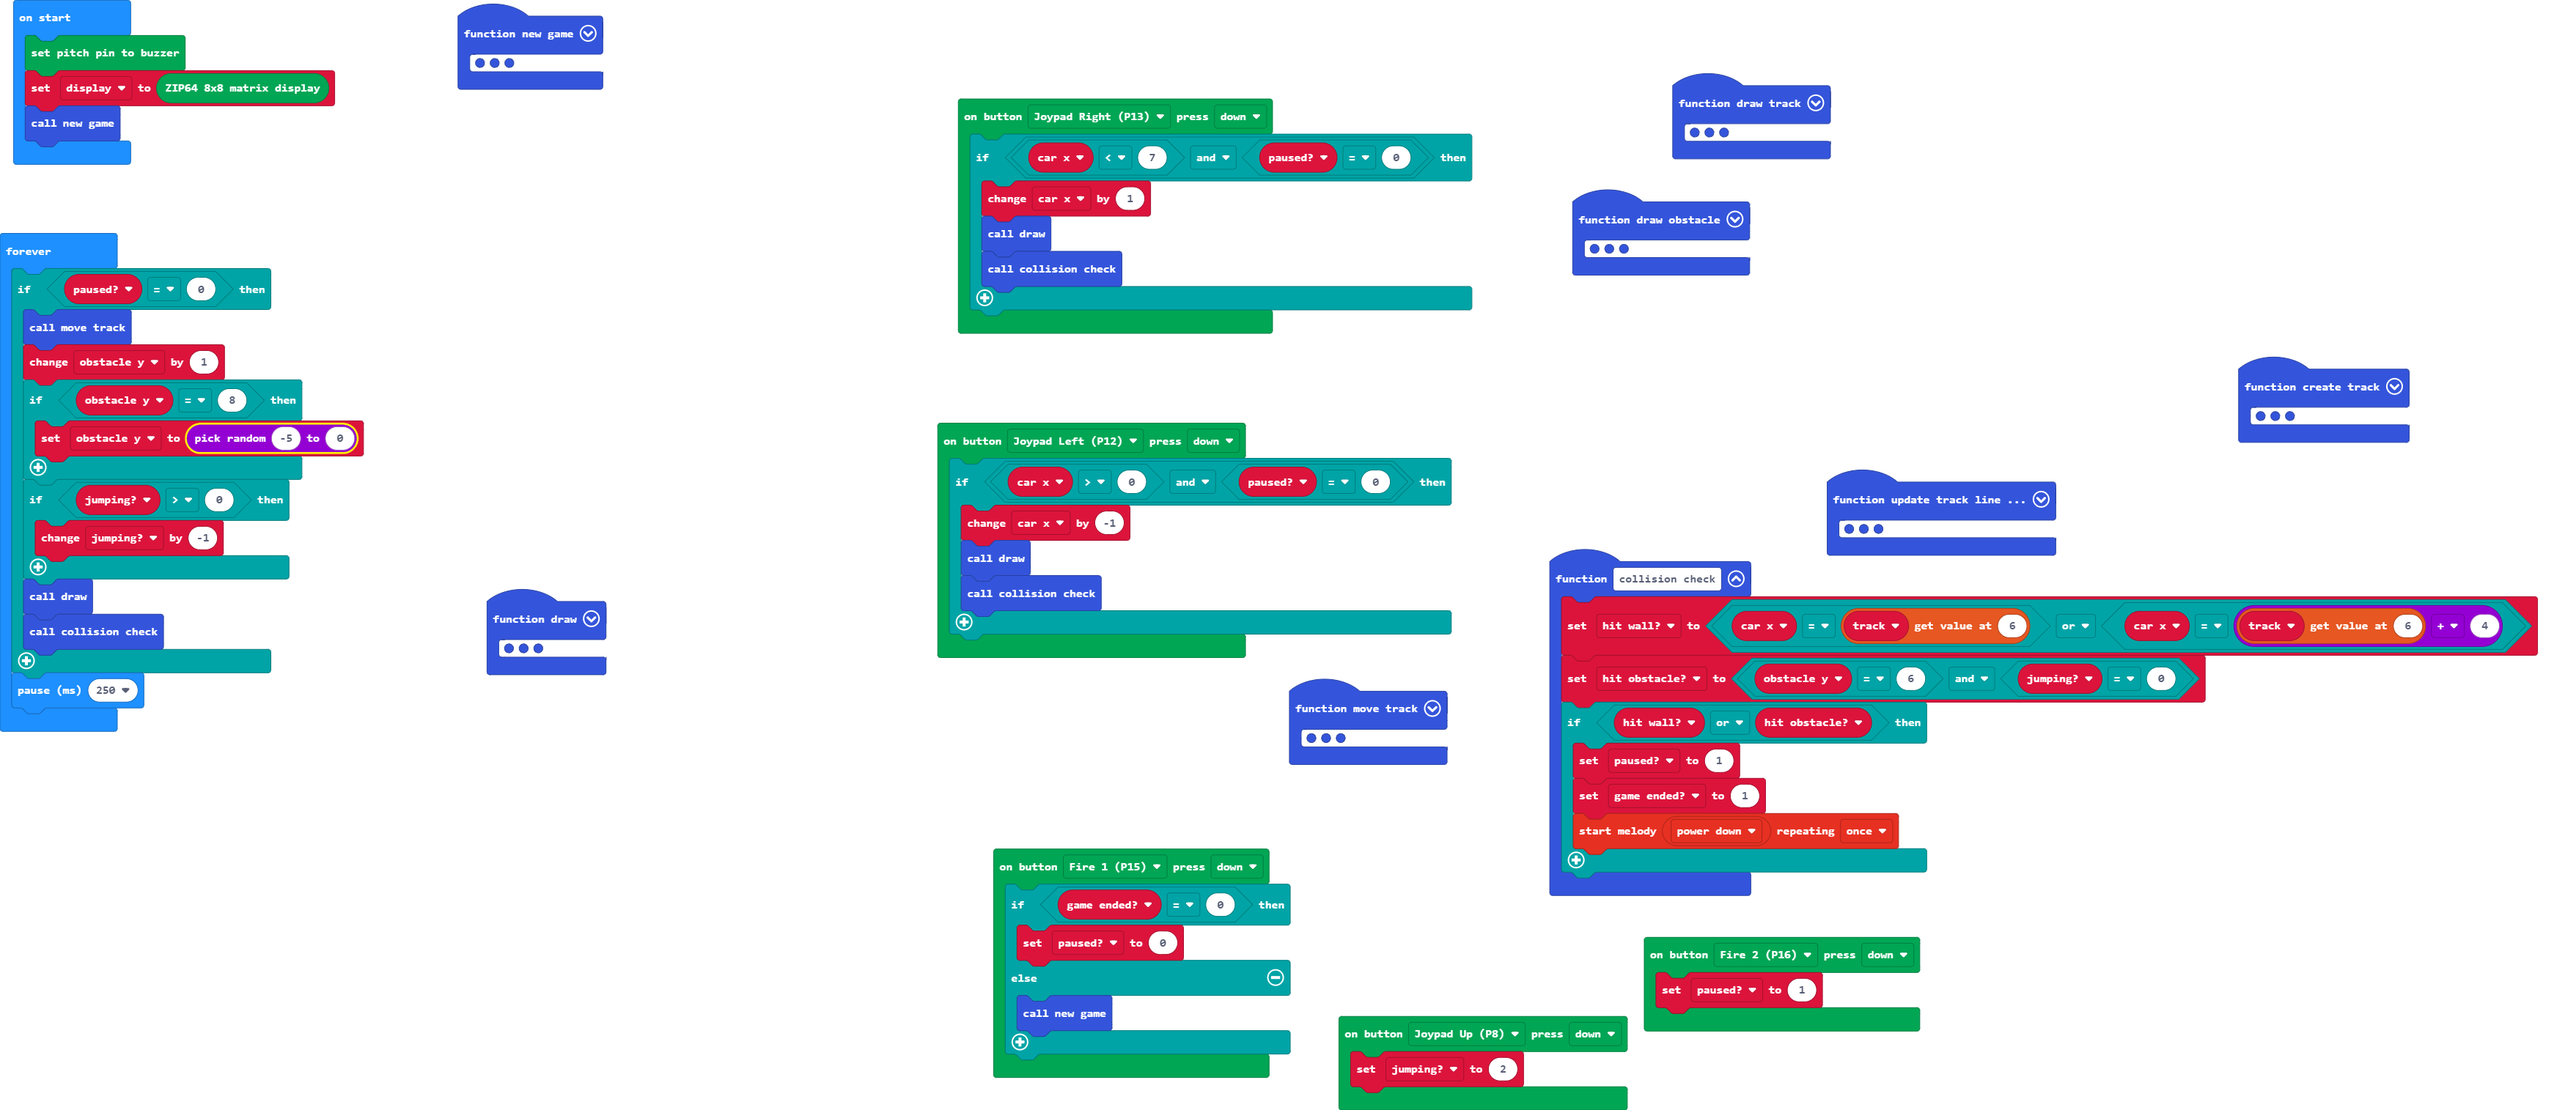
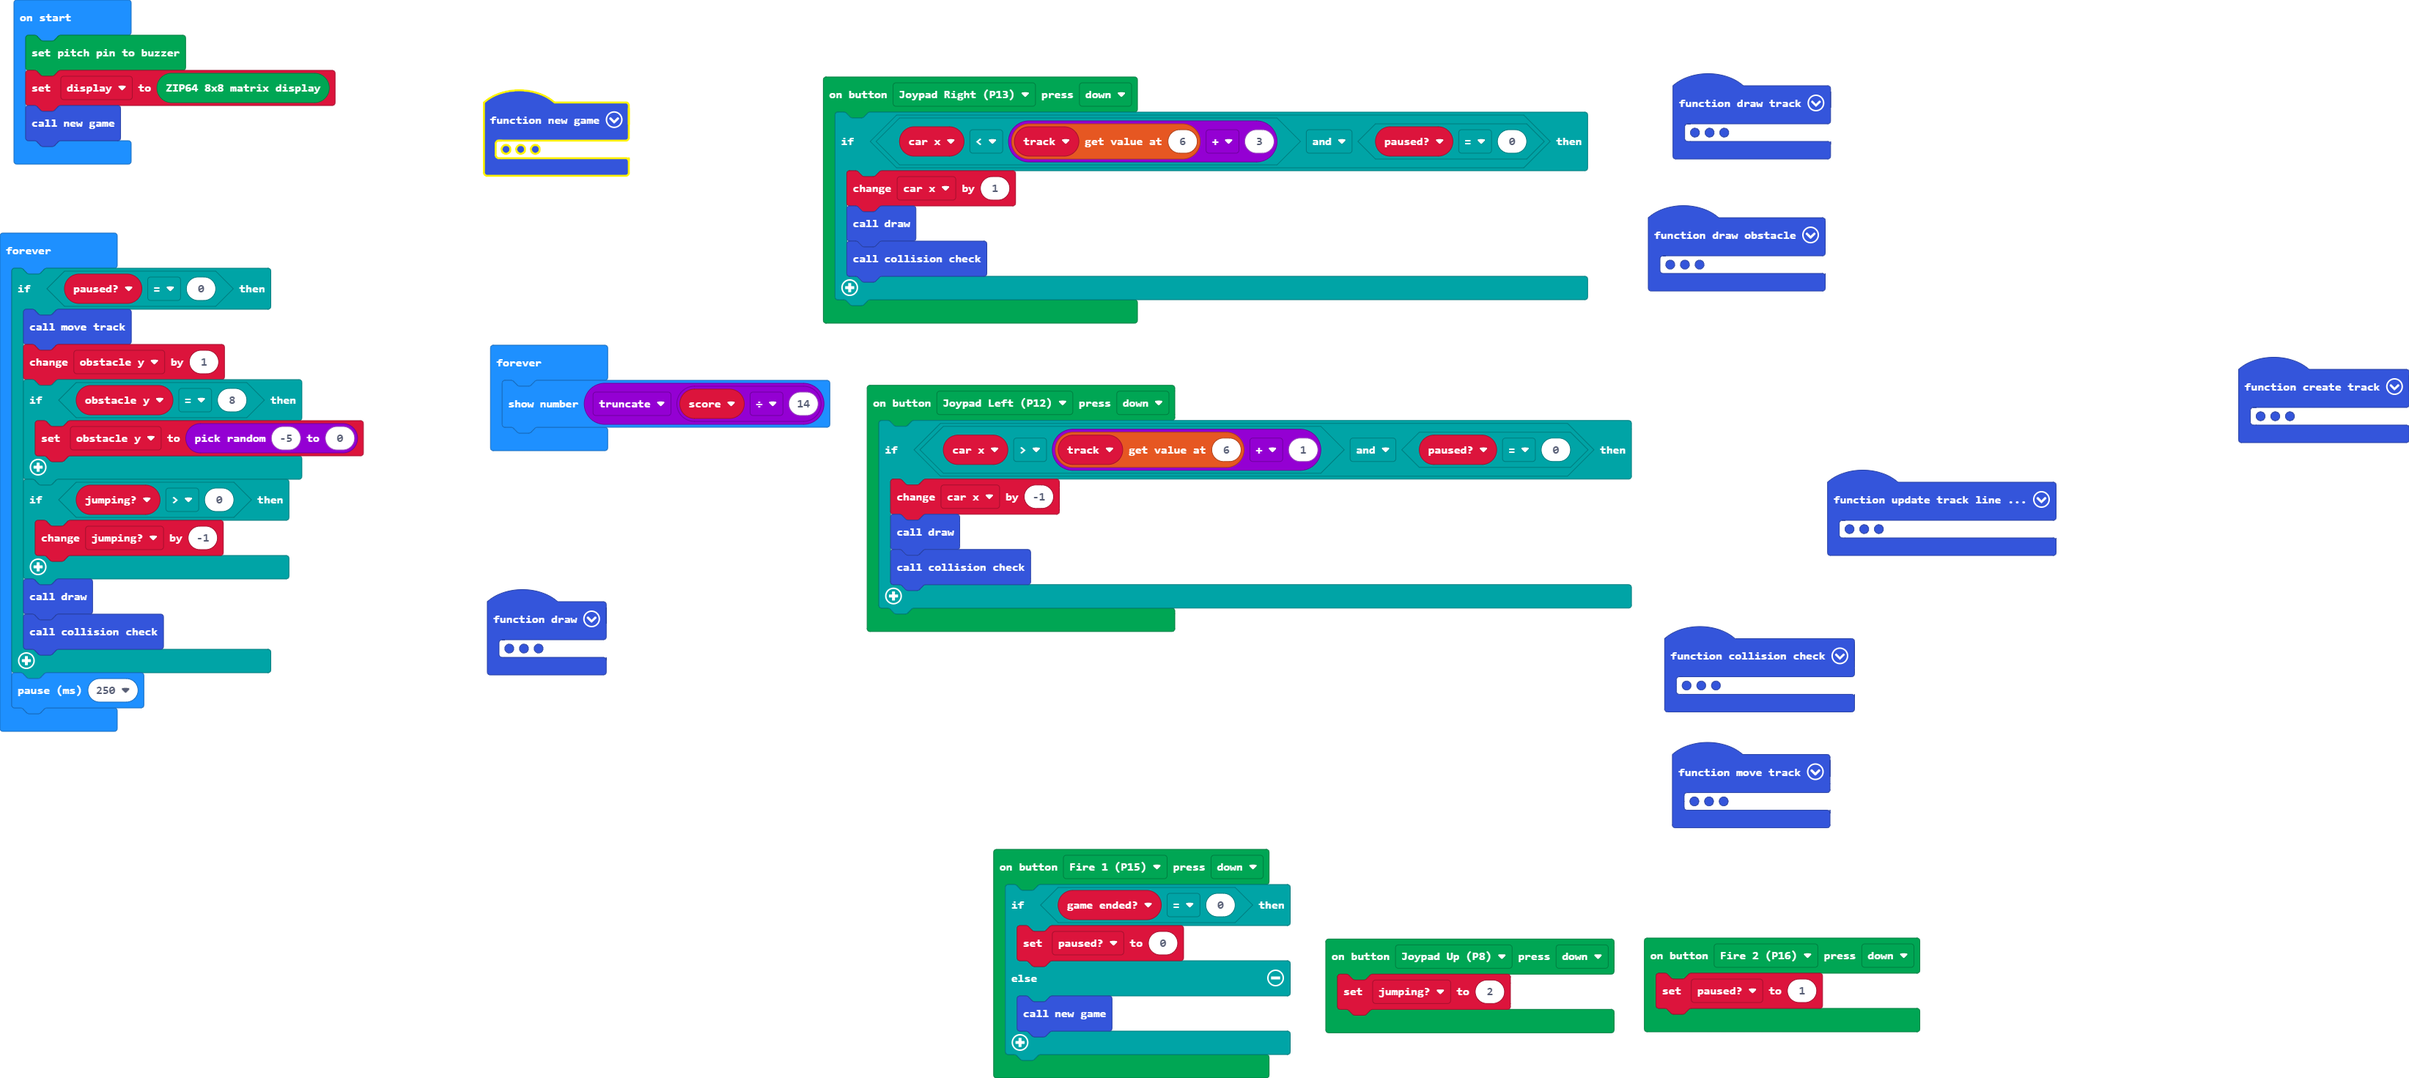
Show score, prevent steering into barriers

diff --git a/main.ts b/main.ts
@@ -56,7 +56,7 @@ function update_track_line (line: number) {
     track[line] = next_track
 }
 GAME_ZIP64.onButtonPress(GAME_ZIP64.ZIP64ButtonPins.Left, GAME_ZIP64.ZIP64ButtonEvents.Down, function () {
-    if (car_x > 0 && paused == 0) {
+    if (car_x > track[6] + 1 && paused == 0) {
         car_x += -1
         draw()
         collision_check()
@@ -68,6 +68,7 @@ function move_track () {
         track[line] = track[line - 1]
         line += -1
     }
+    score += 1
     update_track_line(0)
 }
 function draw_track () {
@@ -77,7 +78,7 @@ function draw_track () {
     }
 }
 GAME_ZIP64.onButtonPress(GAME_ZIP64.ZIP64ButtonPins.Right, GAME_ZIP64.ZIP64ButtonEvents.Down, function () {
-    if (car_x < 7 && paused == 0) {
+    if (car_x < track[6] + 3 && paused == 0) {
         car_x += 1
         draw()
         collision_check()
@@ -92,9 +93,11 @@ function new_game () {
     paused = 1
     game_ended = 0
     car_x = track[6] + 2
-    obstacle_y = randint(-5, 4)
+    obstacle_y = randint(-5, 3)
+    score = 0
     draw()
 }
+let score = 0
 let line = 0
 let next_track = 0
 let previous = 0
@@ -124,4 +127,7 @@ basic.forever(function () {
         collision_check()
     }
     basic.pause(250)
+})
+basic.forever(function () {
+    basic.showNumber(Math.trunc(score / 14))
 })
